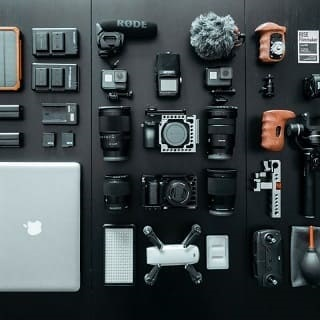
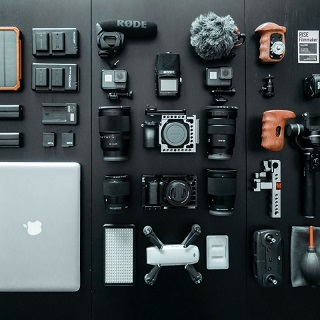
image

diff --git a/index.html b/index.html
@@ -199,7 +199,7 @@
 		<div class="row tight-width-whitespace portfolio-row">
 			<div class="col-sm-6">
 				<a class="a-desktop" href="#" data-lightbox="img/3.jpg" data-gallery-id="gallery-1" data-caption="Création d'un site internet pour un voyageur" data-frame="snapshot-lb"><img src="img/3.jpg" class="img-responsive portfolio-thumb" alt="paris web design logo agence web meilleure agence, Création d'un site web pour voyageur"/></a>
-				<a class="a-tablette-mobile" href="#"><img src="img/3 (1).jpg" class="img-responsive portfolio-thumb" alt="paris web design logo agence web meilleure agence, Création d'un site web pour voyageur"/></a>
+				<a class="a-tablette-mobile" href="#"><img src="img/3.jpg" class="img-responsive portfolio-thumb" alt="paris web design logo agence web meilleure agence, Création d'un site web pour voyageur"/></a>
 				<h3 class="mg-md text-center">
 					<strong>Création d'un site internet</strong> pour un voyageur
 				</h3>
